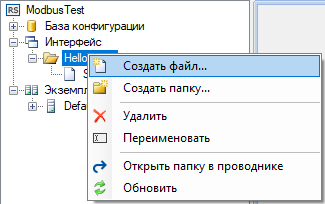
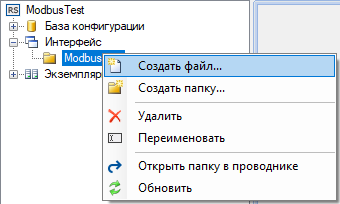
ScadaDoc: change approach in modbus article

diff --git a/ScadaDoc/ScadaDoc/content/latest/ru/use-cases/modbus-protocol.html b/ScadaDoc/ScadaDoc/content/latest/ru/use-cases/modbus-protocol.html
@@ -32,7 +32,7 @@
 
     <h2>Создание проекта</h2>
 
-    <p>В Администраторе нажмите конпку <em>Новый проект</em>, в открывшемся окне введите наименование проекта и выберите в качестве шаблона проект HelloWorld.rsproj, затем нажмите кнопку <em>OK</em>.</p>
+    <p>В Администраторе нажмите конпку <em>Новый проект</em>, в открывшемся окне введите наименование проекта и нажмите кнопку <em>OK</em>.</p>
 
     <p class="sd-article-image">
         <img src="modbus-protocol-files/modbus_new_proj_ru.png" alt="Создание проекта" /><br />
@@ -41,7 +41,7 @@
 
     <h2>Предварительная настройка базы конфигурации</h2>
 
-    <p>Разверните узел проводника проекта <em>База конфигурации</em>, откройте таблицу <em>Объекты</em> и добавьте новую строку для объекта 2 "Тестовый объект" (рис. 2). Щёлкните по кнопке <img src="../../common-images/add_line.png" /> на панели инструментов, чтобы открыть мастер добавления линии связи. С помощью мастера создайте линию связи 2 "Тестовая линия" (рис. 3). Затем нажмите кнопку <img src="../../common-images/add_device.png" /> и добавьте КП 2 "Тестовый КП" (рис. 4).</p>
+    <p>Разверните узел проводника проекта <em>База конфигурации</em>, откройте таблицу <em>Объекты</em> и добавьте новую строку для объекта 2 "Тестовый объект" (рис. 2). Щёлкните по кнопке <img src="../../common-images/add_line.png" /> на панели инструментов, чтобы открыть мастер добавления линии связи. С помощью мастера создайте линию связи 1 "Тестовая линия" (рис. 3). Затем нажмите кнопку <img src="../../common-images/add_device.png" /> и добавьте КП 1 "Тестовый КП" (рис. 4).</p>
 
     <p class="sd-article-image">
         <img src="modbus-protocol-files/modbus_add_obj_ru.png" alt="Добавление объекта" /><br />
@@ -187,7 +187,7 @@
 
     <p>Рассмотрим создание табличного представления для приложения Вебстанция. Если необходимо отобразить данные на мнемосхеме, действия по созданию представления будут аналогичны.</p>
 
-    <p>Щёлкните правой кнопкой на папке <em>HelloWorld</em> в разделе <em>Интерфейс</em> проводника проекта. В контекстном меню выберите <em>Создать файл</em> (рис. 15). Затем в открывшемся окне установите табличный тип представления, укажите имя файла ModbusDevice.tbl и нажмите кнопку <em>OK</em> (рис. 16).</p>
+    <p>Щёлкните правой кнопкой на узле <em>Интерфейс</em> проводника проекта. Сначала в контекстном меню выберите <em>Создать папку</em> и создайте папку ModbusTest. Затем в контекстном меню созданной папки выберите <em>Создать файл</em> (рис. 15). В открывшемся окне установите табличный тип представления, укажите имя файла ModbusDevice.tbl и нажмите кнопку <em>OK</em> (рис. 16).</p>
 
     <p class="sd-article-image">
         <img src="modbus-protocol-files/modbus_interface_menu_ru.png" alt="Меню для создания представления" /><br />
@@ -199,14 +199,14 @@
         Рис. 16. Диалог для создания представления
     </p>
 
-    <p>Созданный файл представления появится в проводнике проекта. По двойному щелчку на элементе дерева откроется <a href="../software-overview/applications/table-editor-application.html">Редактор таблиц</a>. Необходимо ввести наименование и заполнить элементы представления, как показано на рис. 17. Сохраните изменения и закройте редактор.</p>
+    <p>Созданный файл представления появится в проводнике проекта. По двойному щелчку на файле откроется <a href="../software-overview/applications/table-editor-application.html">Редактор таблиц</a>. Необходимо ввести заголовок и заполнить элементы представления, как показано на рис. 17. Сохраните изменения и закройте редактор.</p>
 
     <p class="sd-article-image">
         <img src="modbus-protocol-files/modbus_table_editor_ru.png" alt="Редактирование представления" /><br />
         Рис. 17. Редактирование представления
     </p>
 
-    <p>После того, как файл представления создан, его необходимо прописать в базе конфигурации в таблице Интерфейс (рис. 18).</p>
+    <p>После того, как файл представления создан, необходимо прописать в таблице <em>Интерфейс</em> базы конфигурации родительскую директорию и файл представления (рис. 18).</p>
 
     <p class="sd-article-image">
         <img src="modbus-protocol-files/modbus_interface_table_ru.png" alt="Добавление представления в таблицу Интерфейс" /><br />
